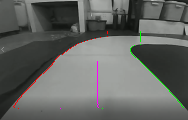
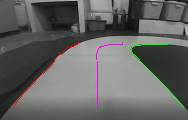
八邻域暂时修改完成

diff --git a/kaohe_balingyu.py b/kaohe_balingyu.py
@@ -1,157 +1,117 @@
 import cv2
 import numpy as np
 
-
-def find_left_point(y, binary_otsu, img, start_x=1, end_x=None):
-    h, w = img.shape[:2]
-    if end_x is None:
-        end_x = w - 1
-
-    for x in range(start_x, end_x, +1):
-        if (binary_otsu[y, x - 1] == 0) and (binary_otsu[y, x] == 255):
+def find_left_point(y, binary_otsu, img):
+    h, w = img.shape[: 2]
+    for x in range(0, w - 2, +1):
+        if binary_otsu[y, x - 1] == 0 and binary_otsu[y, x] == 255 :
             img[y, x] = [0, 0, 255]
             return x
     return 0
 
 
-def find_right_point(y, binary_otsu, img, start_x=0, end_x=None):
-    h, w = img.shape[:2]
-    if end_x is None:
-        end_x = w - 2
 
-    for x in range(start_x, end_x, +1):
-        if (binary_otsu[y, x] == 255) and (binary_otsu[y, x + 1] == 0):
+def find_right_point(y, binary_otsu, img):
+    h, w = img.shape[: 2]
+    for x in range(1, w - 1, +1):
+        if binary_otsu[y, x] == 255 and binary_otsu[y, x + 1] == 0:
             img[y, x] = [0, 255, 0]
             return x
     return 0
 
-
-def find_born_left(y, prev_x, binary_otsu, img, search_range=5):
-    """
-    在当前行附近小范围搜索左边缘点，保持y坐标相近
-    """
-    h, w = binary_otsu.shape
-
-    # 优先在当前行搜索
-    start_x = max(1, prev_x - search_range)
-    end_x = min(w - 1, prev_x + search_range)
-
-    left_x = find_left_point(y, binary_otsu, img, start_x, end_x)
-    if left_x != 0:
-        return y, left_x
-
-    # 如果当前行没找到，在相邻的上下行搜索
-    for dy in [-1, 1, -2, 2]:  # 先搜索相邻行，再搜索稍远的行
-        new_y = y + dy
-        if 0 <= new_y < h:
-            left_x = find_left_point(new_y, binary_otsu, img, start_x, end_x)
-            if left_x != 0:
-                return new_y, left_x
-
-    # 如果都没找到，返回原始点
-    return y, prev_x
-
-
-def find_born_right(y, prev_x, binary_otsu, img, search_range=5):
-    """
-    在当前行附近小范围搜索右边缘点，保持y坐标相近
-    """
-    h, w = binary_otsu.shape
-
-    # 优先在当前行搜索
-    start_x = max(0, prev_x - search_range)
-    end_x = min(w - 2, prev_x + search_range)
-
-    right_x = find_right_point(y, binary_otsu, img, start_x, end_x)
-    if right_x != 0:
-        return y, right_x
-
-    # 如果当前行没找到，在相邻的上下行搜索
-    for dy in [-1, 1, -2, 2]:
-        new_y = y + dy
-        if 0 <= new_y < h:
-            right_x = find_right_point(new_y, binary_otsu, img, start_x, end_x)
-            if right_x != 0:
-                return new_y, right_x
-
-    return y, prev_x
+def find_born_left(y, left, binary_otsu):
+    if binary_otsu[y+1, left+1] == 0:
+        return y+1,left+1
+    elif binary_otsu[y, left+1] == 0:
+        return y,left+1
+    elif binary_otsu[y-1, left+1] == 0:
+        return y-1,left+1
+    elif binary_otsu[y-1, left] == 0:
+        return y-1, left
+    elif binary_otsu[y-1, left-1] == 0:
+        return y-1, left-1
+    elif binary_otsu[y, left-1] == 0:
+        return y, left-1
+    elif binary_otsu[y+1, left-1] == 0:
+        return y+1, left+1
+    else:
+        return y, left
+def find_born_right(y, right, binary_otsu):
+    # if binary_otsu[y+1, right-1] == 0:
+    #     return y+1,right-1
+    if binary_otsu[y, right-1] == 0:
+        return y,right-1
+    if binary_otsu[y-1, right-1] == 0:
+        return y-1,right-1
+    elif binary_otsu[y-1, right] == 0:
+        return y-1,right
+    elif binary_otsu[y-1, right+1] == 0:
+        return y-1,right+1
+    elif binary_otsu[y, right+1] == 0:
+        return y, right+1
+    elif binary_otsu[y+1, right+1] == 0:
+        return y+1, right+1
+    else:
+        return y, right
 
 
 def main():
-    # 1. 图片预处理
-    img = cv2.imread("test.png")
-    if img is None:
-        print("Error: Could not load image")
-        return
 
+    #1.图片预处理
+    img = cv2.imread("test.png")
     gray = cv2.cvtColor(img, cv2.COLOR_BGR2GRAY)
     blurred = cv2.GaussianBlur(gray, (5, 5), 0)
-    ret1, binary_otsu = cv2.threshold(blurred, 0, 255, cv2.THRESH_BINARY + cv2.THRESH_OTSU)
-    h, w = img.shape[:2]
+    ret1, binary_otsu = cv2.threshold(blurred, 0, 255, cv2.THRESH_BINARY + cv2.THRESH_OTSU)#大津阈值算法
+    h, w = img.shape[: 2]
 
-    left_points = []
-    right_points = []
+    left = []
+    right = []
+    mid = []
 
-    # 2. 扫线
-    # (1) 底部区域：直接逐行查找边缘点
-    print("Processing bottom area...")
-    for y in range(h - 12, h // 2, -1):
+    # 2.扫线
+    #(1)
+    for y in range(h - 12, h//2, -1):
         left_x = find_left_point(y, binary_otsu, img)
         right_x = find_right_point(y, binary_otsu, img)
-
         if left_x != 0 and right_x != 0:
-            left_points.append([y, left_x])
-            right_points.append([y, right_x])
+            left.append([y, left_x])
+            right.append([y, right_x])
+            mid.append([y, (left_x + right_x) // 2])
             img[y, (left_x + right_x) // 2] = [255, 0, 255]
-            print(f"Bottom - y:{y}, left:{left_x}, right:{right_x}")
 
-    # (2) 顶部区域：基于前一行的位置进行小范围搜索
-    print("Processing top area...")
-    if left_points and right_points:
-        # 获取最后一个有效的点
-        last_left_y, last_left_x = left_points[-1]
-        last_right_y, last_right_x = right_points[-1]
+    #(2)
+    for y in range(h//2, 45, -1):
+        y, left_x = find_born_left(y, left_x, binary_otsu)
+        y, right_x = find_born_right(y, right_x, binary_otsu)
+        img[y, left_x] = [0, 0, 255]
+        img[y, right_x] = [0, 255, 0]
+        left.append([y, left_x])
+        right.append([y, right_x])
+        mid.append([y, (left_x + right_x) // 2])
+        img[y, (left_x + right_x) // 2] = [255, 0, 255]
+    #(3)
+    for i in range(0, 40, 1):
+        y, left_x = find_born_left(y, left_x, binary_otsu)
+        y, right_x = find_born_right(y, right_x, binary_otsu)
+        img[y, left_x] = [0, 0, 255]
+        img[y, right_x] = [0, 255, 0]
+        left.append([y, left_x])
+        right.append([y, right_x])
+        mid.append([y, (left_x + right_x) // 2])
+        img[y, (left_x + right_x) // 2] = [255, 0, 255]
 
-        # 从底部向上逐行处理
-        for y in range(h // 2 - 1, 30, -1):
-            # 处理左边缘 - 保持在同一行或相邻行
-            new_left_y, new_left_x = find_born_left(y, last_left_x, binary_otsu, img, search_range=10)
+    print(left)
+    print(right)
+    print(mid)
 
-            # 处理右边缘
-            new_right_y, new_right_x = find_born_right(y, last_right_x, binary_otsu, img, search_range=10)
 
-            # 确保点在同一行或相邻行，防止跳跃太大
-            if abs(new_left_y - y) > 2:  # 如果跳跃太大，使用当前行和前一行的x坐标
-                new_left_y = y
-                new_left_x = last_left_x
-
-            if abs(new_right_y - y) > 2:
-                new_right_y = y
-                new_right_x = last_right_x
-
-            # 更新为当前找到的点
-            last_left_y, last_left_x = new_left_y, new_left_x
-            last_right_y, last_right_x = new_right_y, new_right_x
-
-            # 添加到列表并标记
-            left_points.append([new_left_y, new_left_x])
-            right_points.append([new_right_y, new_right_x])
-
-            img[new_left_y, new_left_x] = [0, 0, 255]
-            img[new_right_y, new_right_x] = [0, 255, 0]
-
-            print(
-                f"Top - y:{y}, left_y:{new_left_y}, left_x:{new_left_x}, right_y:{new_right_y}, right_x:{new_right_x}")
-
-    print(f"Found {len(left_points)} left points and {len(right_points)} right points")
-
-    # 3. 显示图像
+    #3.显示图像
     cv2.imshow("otsu", binary_otsu)
     cv2.imshow("img", img)
     cv2.waitKey(0)
     cv2.destroyAllWindows()
-    cv2.imwrite("new1.png", img)
 
+    cv2.imwrite("new1.png", img)
 
 if __name__ == '__main__':
     main()
